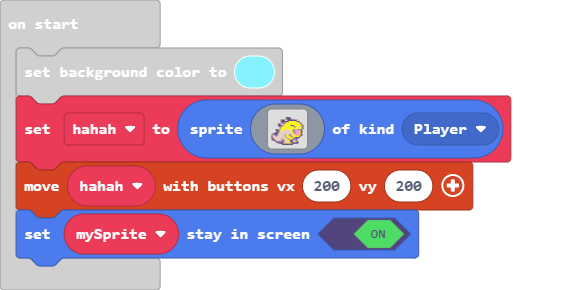
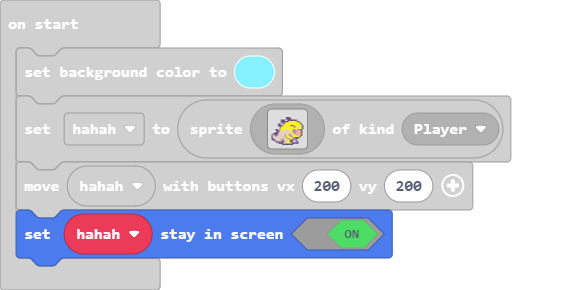
Update main.blocks, main.ts

diff --git a/main.ts b/main.ts
@@ -1,4 +1,3 @@
-let mySprite: Sprite = null
 scene.setBackgroundColor(9)
 let hahah = sprites.create(img`
     ........................
@@ -27,4 +26,4 @@ let hahah = sprites.create(img`
     ........cccccccc........
     `, SpriteKind.Player)
 controller.moveSprite(hahah, 200, 200)
-mySprite.setStayInScreen(true)
+hahah.setStayInScreen(true)
